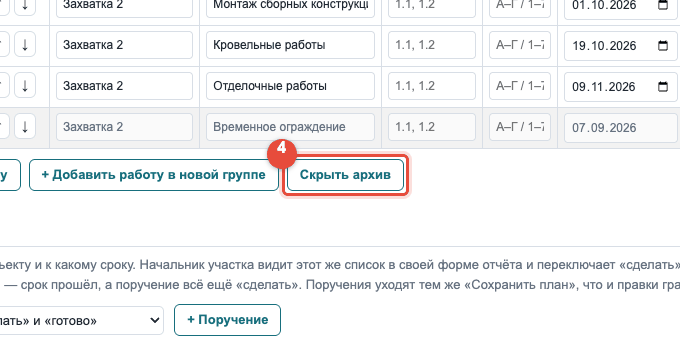
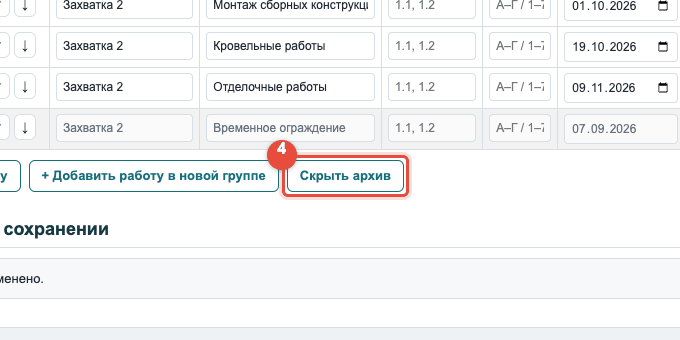
forms: авто

diff --git a/2b0ba7d73c6d/plan/KARE2.html b/2b0ba7d73c6d/plan/KARE2.html
@@ -348,6 +348,39 @@ input:focus,select:focus,textarea:focus{
     </div>
   </div>
 
+  <h2>Поручения</h2>
+  <p class="hint">
+    Кто что делает по объекту и к какому сроку. Начальник участка видит этот же
+    список в своей форме отчёта и переключает «сделать» ↔ «готово»;
+    <strong>«принято директором» ставится только здесь</strong>. Красная ячейка даты — срок прошёл, а
+    поручение всё ещё «сделать». Поручения уходят тем же «Сохранить план», что и
+    правки графика.
+  </p>
+  <div class="assign-bar">
+    <label class="lbl" for="assign-filter">Показывать</label>
+    <select id="assign-filter">
+      <option value="open" selected>«сделать» и «готово»</option>
+      <option value="сделать">только «сделать»</option>
+      <option value="готово">только «готово»</option>
+      <option value="принято директором">принятые директором</option>
+      <option value="all">все</option>
+    </select>
+    <button type="button" class="add-btn" id="addAssign">+ Поручение</button>
+  </div>
+  <table class="assign-table" id="assignTable">
+    <thead><tr>
+      <th>Поручение</th>
+      <th style="width:160px">Ответственный</th>
+      <th style="width:130px">Дедлайн</th>
+      <th style="width:175px">Статус</th>
+      <th style="width:240px">Комментарий</th>
+      <th style="width:34px"></th>
+    </tr></thead>
+    <tbody id="assignTbody"></tbody>
+  </table>
+  <p class="a-empty" id="assignEmpty" hidden>Поручений по этому объекту пока нет.</p>
+
+  <h2>Таблица работ</h2>
   <p class="hint">
     Правьте прямо в таблице. Жёлтая строка — изменённая, голубая — добавленная,
     серая — убранная в архив. «В архив» не удаляет работу: она исчезает из формы
@@ -380,38 +413,6 @@ input:focus,select:focus,textarea:focus{
     <button type="button" class="add-btn" id="addGroup">+ Добавить работу в новой группе</button>
     <button type="button" class="add-btn" id="toggleArchive">Показать архив</button>
   </div>
-
-  <h2>Поручения</h2>
-  <p class="hint">
-    Кто что делает по объекту и к какому сроку. Начальник участка видит этот же
-    список в своей форме отчёта и переключает «сделать» ↔ «готово»;
-    <strong>«принято директором» ставится только здесь</strong>. Красная ячейка даты — срок прошёл, а
-    поручение всё ещё «сделать». Поручения уходят тем же «Сохранить план», что и
-    правки графика.
-  </p>
-  <div class="assign-bar">
-    <label class="lbl" for="assign-filter">Показывать</label>
-    <select id="assign-filter">
-      <option value="open" selected>«сделать» и «готово»</option>
-      <option value="сделать">только «сделать»</option>
-      <option value="готово">только «готово»</option>
-      <option value="принято директором">принятые директором</option>
-      <option value="all">все</option>
-    </select>
-    <button type="button" class="add-btn" id="addAssign">+ Поручение</button>
-  </div>
-  <table class="assign-table" id="assignTable">
-    <thead><tr>
-      <th>Поручение</th>
-      <th style="width:160px">Ответственный</th>
-      <th style="width:130px">Дедлайн</th>
-      <th style="width:175px">Статус</th>
-      <th style="width:240px">Комментарий</th>
-      <th style="width:34px"></th>
-    </tr></thead>
-    <tbody id="assignTbody"></tbody>
-  </table>
-  <p class="a-empty" id="assignEmpty" hidden>Поручений по этому объекту пока нет.</p>
 
   <h2>Что уйдёт при сохранении</h2>
   <div class="changes-box" id="changesBox">Пока ничего не изменено.</div>
@@ -628,7 +629,7 @@ input:focus,select:focus,textarea:focus{
 </div>
 
 <div class="help-step" id="of-s7">
-<p><strong>7. Поручения.</strong> Раздел ниже таблицы работ. Отличие от формы
+<p><strong>7. Поручения.</strong> Раздел сразу под шапкой объекта, над таблицей работ. Отличие от формы
 НУ — здесь доступен статус <strong>«принято директором»</strong>: «готово»
 говорит исполнитель, принимает — Александр. Дедлайн и текст поручения из формы
 НУ правятся только здесь. Красная ячейка даты — срок прошёл.</p>
@@ -725,7 +726,7 @@ input:focus,select:focus,textarea:focus{
 </div>
 
 <div class="help-step" id="of-s7">
-<p><strong>7. Поручения.</strong> Раздел ниже таблицы работ. Отличие от формы
+<p><strong>7. Поручения.</strong> Раздел сразу под шапкой объекта, над таблицей работ. Отличие от формы
 НУ — здесь доступен статус <strong>«принято директором»</strong>: «готово»
 говорит исполнитель, принимает — Александр. Дедлайн и текст поручения из формы
 НУ правятся только здесь. Красная ячейка даты — срок прошёл.</p>

diff --git a/2b0ba7d73c6d/plan/KZH5.html b/2b0ba7d73c6d/plan/KZH5.html
@@ -348,6 +348,39 @@ input:focus,select:focus,textarea:focus{
     </div>
   </div>
 
+  <h2>Поручения</h2>
+  <p class="hint">
+    Кто что делает по объекту и к какому сроку. Начальник участка видит этот же
+    список в своей форме отчёта и переключает «сделать» ↔ «готово»;
+    <strong>«принято директором» ставится только здесь</strong>. Красная ячейка даты — срок прошёл, а
+    поручение всё ещё «сделать». Поручения уходят тем же «Сохранить план», что и
+    правки графика.
+  </p>
+  <div class="assign-bar">
+    <label class="lbl" for="assign-filter">Показывать</label>
+    <select id="assign-filter">
+      <option value="open" selected>«сделать» и «готово»</option>
+      <option value="сделать">только «сделать»</option>
+      <option value="готово">только «готово»</option>
+      <option value="принято директором">принятые директором</option>
+      <option value="all">все</option>
+    </select>
+    <button type="button" class="add-btn" id="addAssign">+ Поручение</button>
+  </div>
+  <table class="assign-table" id="assignTable">
+    <thead><tr>
+      <th>Поручение</th>
+      <th style="width:160px">Ответственный</th>
+      <th style="width:130px">Дедлайн</th>
+      <th style="width:175px">Статус</th>
+      <th style="width:240px">Комментарий</th>
+      <th style="width:34px"></th>
+    </tr></thead>
+    <tbody id="assignTbody"></tbody>
+  </table>
+  <p class="a-empty" id="assignEmpty" hidden>Поручений по этому объекту пока нет.</p>
+
+  <h2>Таблица работ</h2>
   <p class="hint">
     Правьте прямо в таблице. Жёлтая строка — изменённая, голубая — добавленная,
     серая — убранная в архив. «В архив» не удаляет работу: она исчезает из формы
@@ -380,38 +413,6 @@ input:focus,select:focus,textarea:focus{
     <button type="button" class="add-btn" id="addGroup">+ Добавить работу в новой группе</button>
     <button type="button" class="add-btn" id="toggleArchive">Показать архив</button>
   </div>
-
-  <h2>Поручения</h2>
-  <p class="hint">
-    Кто что делает по объекту и к какому сроку. Начальник участка видит этот же
-    список в своей форме отчёта и переключает «сделать» ↔ «готово»;
-    <strong>«принято директором» ставится только здесь</strong>. Красная ячейка даты — срок прошёл, а
-    поручение всё ещё «сделать». Поручения уходят тем же «Сохранить план», что и
-    правки графика.
-  </p>
-  <div class="assign-bar">
-    <label class="lbl" for="assign-filter">Показывать</label>
-    <select id="assign-filter">
-      <option value="open" selected>«сделать» и «готово»</option>
-      <option value="сделать">только «сделать»</option>
-      <option value="готово">только «готово»</option>
-      <option value="принято директором">принятые директором</option>
-      <option value="all">все</option>
-    </select>
-    <button type="button" class="add-btn" id="addAssign">+ Поручение</button>
-  </div>
-  <table class="assign-table" id="assignTable">
-    <thead><tr>
-      <th>Поручение</th>
-      <th style="width:160px">Ответственный</th>
-      <th style="width:130px">Дедлайн</th>
-      <th style="width:175px">Статус</th>
-      <th style="width:240px">Комментарий</th>
-      <th style="width:34px"></th>
-    </tr></thead>
-    <tbody id="assignTbody"></tbody>
-  </table>
-  <p class="a-empty" id="assignEmpty" hidden>Поручений по этому объекту пока нет.</p>
 
   <h2>Что уйдёт при сохранении</h2>
   <div class="changes-box" id="changesBox">Пока ничего не изменено.</div>
@@ -628,7 +629,7 @@ input:focus,select:focus,textarea:focus{
 </div>
 
 <div class="help-step" id="of-s7">
-<p><strong>7. Поручения.</strong> Раздел ниже таблицы работ. Отличие от формы
+<p><strong>7. Поручения.</strong> Раздел сразу под шапкой объекта, над таблицей работ. Отличие от формы
 НУ — здесь доступен статус <strong>«принято директором»</strong>: «готово»
 говорит исполнитель, принимает — Александр. Дедлайн и текст поручения из формы
 НУ правятся только здесь. Красная ячейка даты — срок прошёл.</p>
@@ -725,7 +726,7 @@ input:focus,select:focus,textarea:focus{
 </div>
 
 <div class="help-step" id="of-s7">
-<p><strong>7. Поручения.</strong> Раздел ниже таблицы работ. Отличие от формы
+<p><strong>7. Поручения.</strong> Раздел сразу под шапкой объекта, над таблицей работ. Отличие от формы
 НУ — здесь доступен статус <strong>«принято директором»</strong>: «готово»
 говорит исполнитель, принимает — Александр. Дедлайн и текст поручения из формы
 НУ правятся только здесь. Красная ячейка даты — срок прошёл.</p>

diff --git a/2b0ba7d73c6d/KARE2.html b/2b0ba7d73c6d/KARE2.html
@@ -831,7 +831,7 @@ tr.row-explained td{border-color:var(--green-border)}
 </div>
 
 <div class="help-step" id="of-s7">
-<p><strong>7. Поручения.</strong> Раздел ниже таблицы работ. Отличие от формы
+<p><strong>7. Поручения.</strong> Раздел сразу под шапкой объекта, над таблицей работ. Отличие от формы
 НУ — здесь доступен статус <strong>«принято директором»</strong>: «готово»
 говорит исполнитель, принимает — Александр. Дедлайн и текст поручения из формы
 НУ правятся только здесь. Красная ячейка даты — срок прошёл.</p>
@@ -928,7 +928,7 @@ tr.row-explained td{border-color:var(--green-border)}
 </div>
 
 <div class="help-step" id="of-s7">
-<p><strong>7. Поручения.</strong> Раздел ниже таблицы работ. Отличие от формы
+<p><strong>7. Поручения.</strong> Раздел сразу под шапкой объекта, над таблицей работ. Отличие от формы
 НУ — здесь доступен статус <strong>«принято директором»</strong>: «готово»
 говорит исполнитель, принимает — Александр. Дедлайн и текст поручения из формы
 НУ правятся только здесь. Красная ячейка даты — срок прошёл.</p>

diff --git a/2b0ba7d73c6d/KZH5.html b/2b0ba7d73c6d/KZH5.html
@@ -831,7 +831,7 @@ tr.row-explained td{border-color:var(--green-border)}
 </div>
 
 <div class="help-step" id="of-s7">
-<p><strong>7. Поручения.</strong> Раздел ниже таблицы работ. Отличие от формы
+<p><strong>7. Поручения.</strong> Раздел сразу под шапкой объекта, над таблицей работ. Отличие от формы
 НУ — здесь доступен статус <strong>«принято директором»</strong>: «готово»
 говорит исполнитель, принимает — Александр. Дедлайн и текст поручения из формы
 НУ правятся только здесь. Красная ячейка даты — срок прошёл.</p>
@@ -928,7 +928,7 @@ tr.row-explained td{border-color:var(--green-border)}
 </div>
 
 <div class="help-step" id="of-s7">
-<p><strong>7. Поручения.</strong> Раздел ниже таблицы работ. Отличие от формы
+<p><strong>7. Поручения.</strong> Раздел сразу под шапкой объекта, над таблицей работ. Отличие от формы
 НУ — здесь доступен статус <strong>«принято директором»</strong>: «готово»
 говорит исполнитель, принимает — Александр. Дедлайн и текст поручения из формы
 НУ правятся только здесь. Красная ячейка даты — срок прошёл.</p>

diff --git a/2b0ba7d73c6d/index.html b/2b0ba7d73c6d/index.html
@@ -480,7 +480,7 @@ a:hover{text-decoration:underline}
 </div>
 
 <div class="help-step" id="of-s7">
-<p><strong>7. Поручения.</strong> Раздел ниже таблицы работ. Отличие от формы
+<p><strong>7. Поручения.</strong> Раздел сразу под шапкой объекта, над таблицей работ. Отличие от формы
 НУ — здесь доступен статус <strong>«принято директором»</strong>: «готово»
 говорит исполнитель, принимает — Александр. Дедлайн и текст поручения из формы
 НУ правятся только здесь. Красная ячейка даты — срок прошёл.</p>
@@ -577,7 +577,7 @@ a:hover{text-decoration:underline}
 </div>
 
 <div class="help-step" id="of-s7">
-<p><strong>7. Поручения.</strong> Раздел ниже таблицы работ. Отличие от формы
+<p><strong>7. Поручения.</strong> Раздел сразу под шапкой объекта, над таблицей работ. Отличие от формы
 НУ — здесь доступен статус <strong>«принято директором»</strong>: «готово»
 говорит исполнитель, принимает — Александр. Дедлайн и текст поручения из формы
 НУ правятся только здесь. Красная ячейка даты — срок прошёл.</p>
